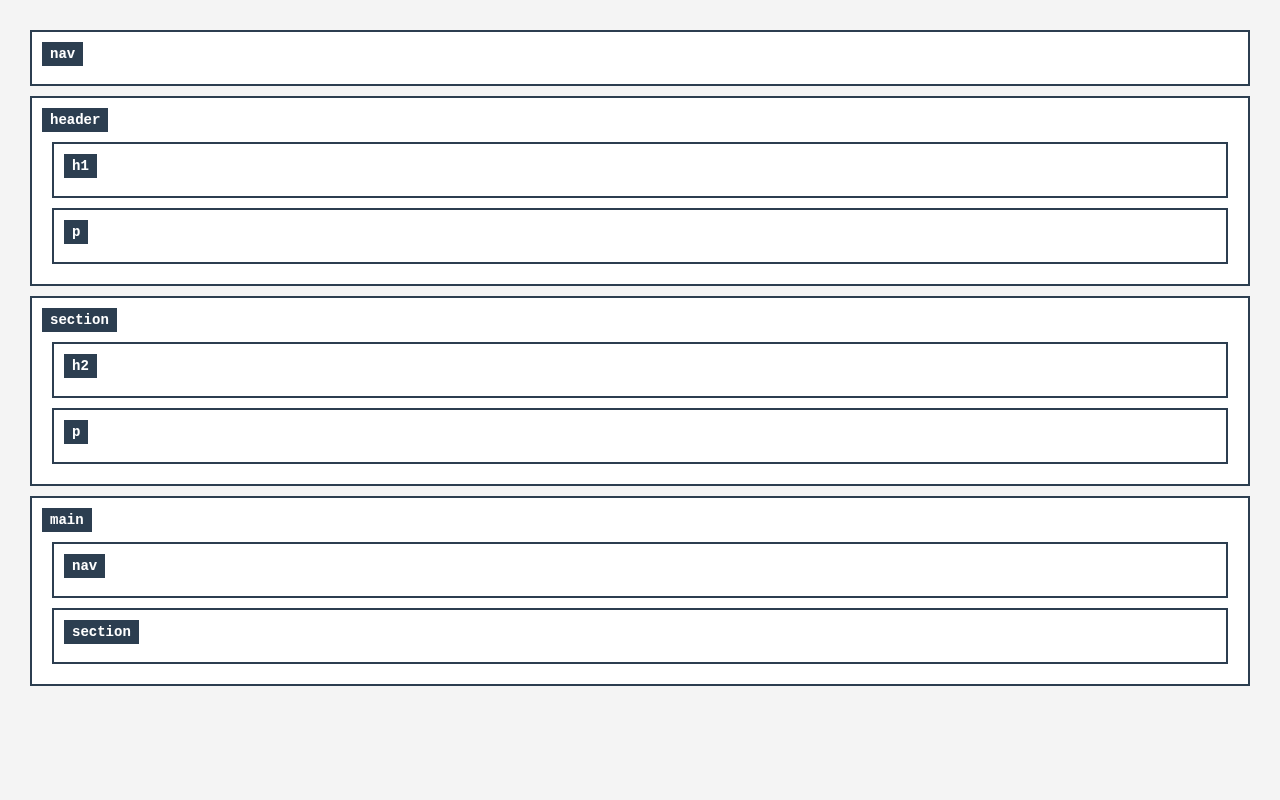
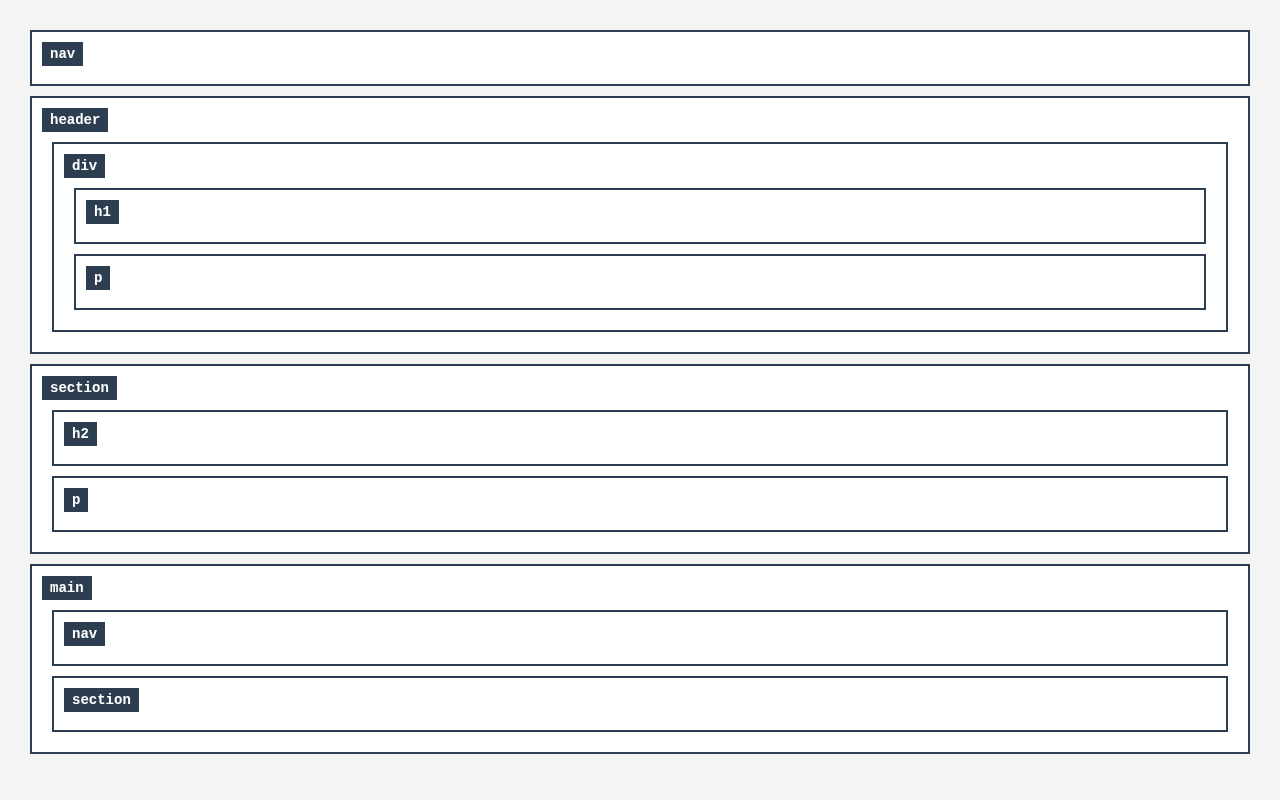
ya no se que cambie quienes somos y el botón de ordenar de servicios creo

Changed region(s): [[0.0312, 0.1875, 0.9688, 0.9062], [0.9375, 0.25, 0.9688, 0.2812]]

diff --git a/petcare-frontend-p2/urgencias.html b/petcare-frontend-p2/urgencias.html
@@ -25,7 +25,7 @@
     <a class="main-logo" href="index.html"> <img src="assets/imgs/logo.svg" alt="logo PetCare"> PetCare </a>
     <a href="servicios.html"> Servicios</a>
     <a href="consejos.html"> Consejos de salud</a>
-    <a href="sobre-nosotros.html"> Sobre Nosotros</a>
+    <a href="sobre-nosotros.html"> Quiénes somos</a>
     <a class="pedir-cita-navbar borde-asimetrico" href="clinicas.html">Pedir cita</a>
     <a class="urgencias-navbar borde-asimetrico" href="urgencias.html">Urgencias</a>
     <button class="menu-hamburguesa-moviles">☰</button>
@@ -37,22 +37,21 @@
   </header>
 
   <main>
+    <p id="sin-clinicas-disponibles" class="mensaje-vacio borde-asimetrico-2" hidden>
+      No hay clínicas de urgencias disponibles en este momento.
+    </p>
     <ul class="contenedor-tarjetas"></ul>
   </main>
 
   <template id="molde-clinica">
     <li>
-      <article class="tarjeta borde-asimetrico">
-        <img class="foto-clinica foto-pequena" src="" alt="Foto clínica">
+      <article class="tarjeta borde-asimetrico-2">
+        <img class="foto-clinica foto-pequena borde-asimetrico" src="" alt="Foto clínica">
         <strong class="titulo-clinica">Nombre</strong>
         <address class="linea-flex ubicacion">
           <img class="icono-pequeno" src="assets/imgs/location-pin.svg">
           <span class="texto-ubicacion">Ubicación</span>
         </address>
-        <p class="alerta-urgencias linea-flex filtro borde-asimetrico"> 
-          <img class="icono-pequeno" src="assets/imgs/warning-icon.svg"> 
-          Atiende urgencias
-        </p>
         <hr class="separador-tarjeta">
         <p class="linea-flex horario">
           <img class="icono-pequeno" src="assets/imgs/clock-two.svg">
@@ -63,12 +62,10 @@
           <img class="icono-pequeno" src="assets/imgs/phone.svg"> 
           <span class="texto-telefono">Teléfono</span>
         </p>
-        
         <a class="llamar-ahora boton borde-asimetrico filtro" href="">Llamar</a>
       </article>
     </li>
   </template>
-
 </body>
 
 </html>

diff --git a/petcare-frontend-p2/sobre-nosotros.html b/petcare-frontend-p2/sobre-nosotros.html
@@ -18,16 +18,18 @@
     <a class="main-logo" href="index.html"> <img src="assets/imgs/logo.svg" alt="logo PetCare"> PetCare </a>
     <a href="servicios.html"> Servicios</a>
     <a href="consejos.html"> Consejos de salud</a>
-    <a href="sobre-nosotros.html"> Sobre Nosotros</a>
+    <a href="sobre-nosotros.html"> Quiénes somos</a>
     <a class="pedir-cita-navbar borde-asimetrico" href="clinicas.html">Pedir cita</a>
     <a class="urgencias-navbar borde-asimetrico" href="urgencias.html">Urgencias</a>
     <button class="menu-hamburguesa-moviles">☰</button>
   </nav>
 
   <header class="header-multicol bg-gradient-1">
-    <h1>¿Quiénes somos?</h1>
-    <p>Somos una red de clínicas veterinarias comprometidas con la excelencia clínica, el bienestar animal y la responsabilidad ambiental. Nuestro equipo de profesionales altamente capacitados trabaja cada día para garantizar la mejor atención a tus mascotas con tecnología avanzada y protocolos rigurosos de calidad.</p>
-    <img class="borde-asimetrico" src="assets/imgs/logo.svg">
+    <div class="header-texto">
+      <h1>¿Quiénes somos?</h1>
+      <p>Somos una red de clínicas veterinarias comprometidas con la excelencia clínica, el bienestar animal y la responsabilidad ambiental. Nuestro equipo de profesionales altamente capacitados trabaja cada día para garantizar la mejor atención a tus mascotas con tecnología avanzada y protocolos rigurosos de calidad.</p>
+    </div>
+    <img class="borde-asimetrico" src="assets/imgs/logo.svg" alt="Logo PetCare">
   </header>
 
   <section class="about-us-info borde-asimetrico">

diff --git a/petcare-frontend/assets/js/servicios.js b/petcare-frontend/assets/js/servicios.js
@@ -1,9 +1,11 @@
 let serviciosGlobal = [];
 let terminoBusquedaServicios = "";
+let estaOrdenado = false;
 
 document.addEventListener("DOMContentLoaded", () => {
     cargarServicios();
     inicializarEventosBusqueda();
+    inicializarBotordenamiento();
 });
 
 function cargarServicios() {
@@ -78,12 +80,31 @@ function inicializarEventosBusqueda() {
     }
 }
 
+function inicializarBotordenamiento() {
+    const btnOrdenar = document.getElementById("btn-ordenar");
+    if (btnOrdenar) {
+        btnOrdenar.addEventListener("click", () => {
+            estaOrdenado = !estaOrdenado;
+            btnOrdenar.textContent = estaOrdenado ? "↕ Ordenar Z-A" : "↕ Ordenar A-Z";
+            renderizarServicios();
+        });
+    }
+}
+
 function filtrarServicios() {
-    return serviciosGlobal.filter(servicio => {
+    let serviciosFiltrados = serviciosGlobal.filter(servicio => {
         return terminoBusquedaServicios === "" ||
             servicio.nombre.toLowerCase().includes(terminoBusquedaServicios) ||
             servicio.descripcion.toLowerCase().includes(terminoBusquedaServicios);
     });
+
+    if (estaOrdenado) {
+        serviciosFiltrados.sort((a, b) => {
+            return a.nombre.localeCompare(b.nombre, 'es');
+        });
+    }
+
+    return serviciosFiltrados;
 }
 
 function renderizarServicios() {

diff --git a/petcare-frontend-p2/pedir-cita.html b/petcare-frontend-p2/pedir-cita.html
@@ -8,7 +8,7 @@
   <meta name="keywords" content="width=device-width, initial-scale=1.0">
   <title>PetCare | Pedir cita</title>
   <link rel="icon" type="image/x-icon" href="assets/imgs/logo.svg">
-
+  <script src="assets/js/pedir-cita.js"></script>
   <link rel="stylesheet" href="assets/css/bootstrap.min.css">
   <link rel="stylesheet" href="assets/css/pedir-cita.css">
 </head>
@@ -71,6 +71,5 @@
   <script src="assets/js/main.js"></script>
   <script src="https://code.jquery.com/jquery-3.7.1.min.js"></script>
   <script src="assets/js/jquery-migrate-3.6.0.min.js"></script>
-  <script src="assets/js/pedir-cita.js"></script>
 </body>
 </html>

diff --git a/petcare-frontend-p2/clinicas.html b/petcare-frontend-p2/clinicas.html
@@ -18,7 +18,7 @@
     <a class="main-logo" href="index.html"> <img src="assets/imgs/logo.svg" alt="logo PetCare"> PetCare </a>
     <a href="servicios.html"> Servicios</a>
     <a href="consejos.html"> Consejos de salud</a>
-    <a href="sobre-nosotros.html"> Sobre Nosotros</a>
+    <a href="sobre-nosotros.html"> Quiénes somos</a>
     <a class="pedir-cita-navbar borde-asimetrico" href="clinicas.html">Pedir cita</a>
     <a class="urgencias-navbar borde-asimetrico" href="urgencias.html">Urgencias</a>
     <button class="menu-hamburguesa-moviles">☰</button>

diff --git a/petcare-frontend/clinicas.html b/petcare-frontend/clinicas.html
@@ -18,7 +18,7 @@
     <a class="main-logo" href="index.html"> <img src="assets/imgs/logo.svg" alt="logo PetCare"> PetCare </a>
     <a href="servicios.html"> Servicios</a>
     <a href="consejos.html"> Consejos de salud</a>
-    <a href="sobre-nosotros.html"> Sobre Nosotros</a>
+    <a href="sobre-nosotros.html"> Quiénes somos</a>
     <a class="pedir-cita-navbar borde-asimetrico" href="clinicas.html">Pedir cita</a>
     <a class="urgencias-navbar borde-asimetrico" href="urgencias.html">Urgencias</a>
     <button class="menu-hamburguesa-moviles">☰</button>

diff --git a/petcare-frontend/sobre-nosotros.html b/petcare-frontend/sobre-nosotros.html
@@ -18,7 +18,7 @@
     <a class="main-logo" href="index.html"> <img src="assets/imgs/logo.svg" alt="logo PetCare"> PetCare </a>
     <a href="servicios.html"> Servicios</a>
     <a href="consejos.html"> Consejos de salud</a>
-    <a href="sobre-nosotros.html"> Sobre Nosotros</a>
+    <a href="sobre-nosotros.html"> Quiénes somos</a>
     <a class="pedir-cita-navbar borde-asimetrico" href="clinicas.html">Pedir cita</a>
     <a class="urgencias-navbar borde-asimetrico" href="urgencias.html">Urgencias</a>
     <button class="menu-hamburguesa-moviles">☰</button>

diff --git a/petcare-frontend/urgencias.html b/petcare-frontend/urgencias.html
@@ -25,7 +25,7 @@
     <a class="main-logo" href="index.html"> <img src="assets/imgs/logo.svg" alt="logo PetCare"> PetCare </a>
     <a href="servicios.html"> Servicios</a>
     <a href="consejos.html"> Consejos de salud</a>
-    <a href="sobre-nosotros.html"> Sobre Nosotros</a>
+    <a href="sobre-nosotros.html"> Quiénes somos</a>
     <a class="pedir-cita-navbar borde-asimetrico" href="clinicas.html">Pedir cita</a>
     <a class="urgencias-navbar borde-asimetrico" href="urgencias.html">Urgencias</a>
     <button class="menu-hamburguesa-moviles">☰</button>

diff --git a/petcare-frontend-p2/index.html b/petcare-frontend-p2/index.html
@@ -31,7 +31,7 @@
       <h1>Encuentra tu clínica</h1>
       <a class="hero-home__enlace-secundario borde-asimetrico" href="clinicas.html">Todas las clínicas</a>
 
-      <form class="hero-home__formulario" action="#" method="get">
+      <form class="hero-home__formulario" action="clinicas.html" method="get">
         <label class="visually-hidden" for="buscar-clinica">Buscar clínica</label>
         <input id="buscar-clinica" type="search" name="clinica" placeholder="Buscar clínica...">
         <button type="submit" class="borde-asimetrico">

diff --git a/petcare-frontend-p2/consejo-especifico.html b/petcare-frontend-p2/consejo-especifico.html
@@ -22,7 +22,7 @@
     </a>
     <a href="servicios.html">Servicios</a>
     <a href="consejos.html">Consejos de salud</a>
-    <a href="sobre-nosotros.html">Sobre Nosotros</a>
+    <a href="sobre-nosotros.html">Quiénes somos</a>
     <a class="pedir-cita-navbar borde-asimetrico" href="clinicas.html">Pedir cita</a>
     <a class="urgencias-navbar borde-asimetrico" href="urgencias.html">Urgencias</a>
     <button class="menu-hamburguesa-moviles" type="button" aria-label="Abrir menú">☰</button>

diff --git a/petcare-frontend/consejo-especifico.html b/petcare-frontend/consejo-especifico.html
@@ -22,7 +22,7 @@
     </a>
     <a href="servicios.html">Servicios</a>
     <a href="consejos.html">Consejos de salud</a>
-    <a href="sobre-nosotros.html">Sobre Nosotros</a>
+    <a href="sobre-nosotros.html">Quiénes somos</a>
     <a class="pedir-cita-navbar borde-asimetrico" href="clinicas.html">Pedir cita</a>
     <a class="urgencias-navbar borde-asimetrico" href="urgencias.html">Urgencias</a>
     <button class="menu-hamburguesa-moviles" type="button" aria-label="Abrir menú">☰</button>

diff --git a/petcare-frontend-p2/servicios.html b/petcare-frontend-p2/servicios.html
@@ -17,7 +17,7 @@
     <nav class="main-navbar" aria-label="Navegación principal">
         <a class="main-logo" href="index.html">
             <img src="assets/imgs/logo.svg" alt="Logo de PetCare">
-            PetCare | Servicios
+            PetCare
         </a>
 
         <a href="servicios.html">Servicios</a>
